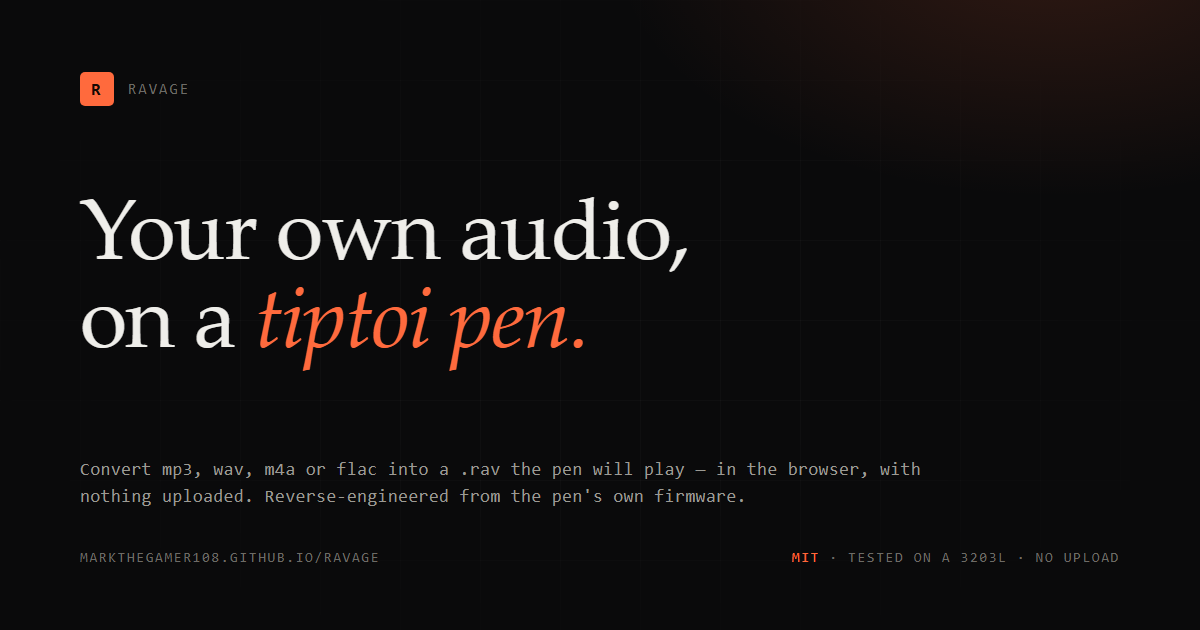
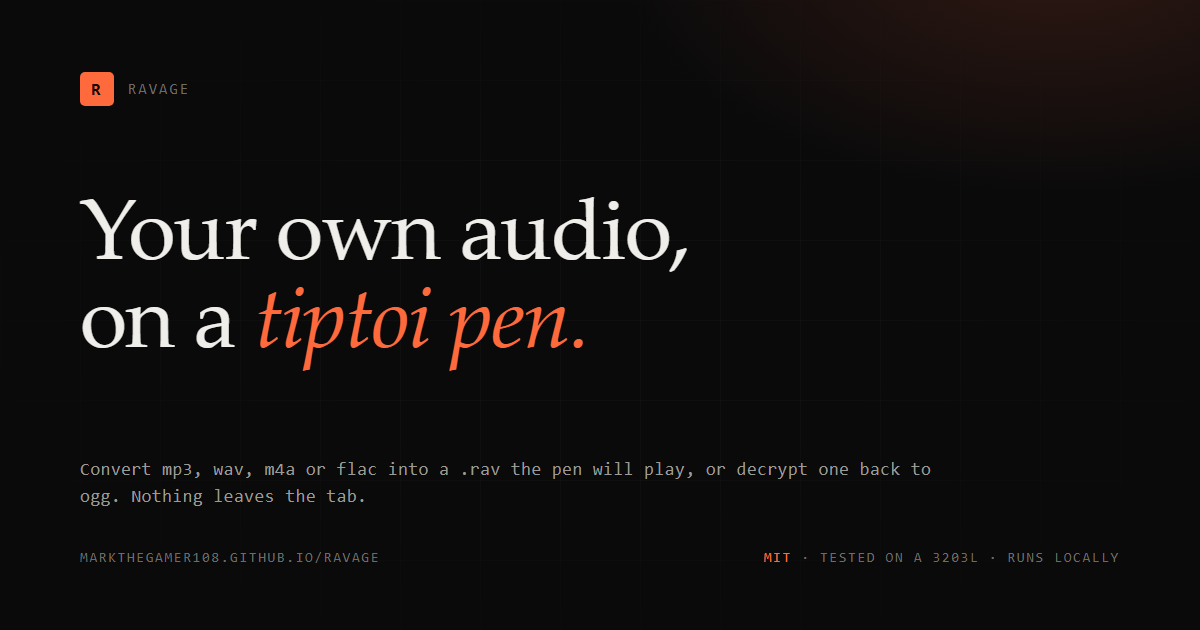
Call the audio mode Encrypt and stop saying upload
The mode switch and action button read Encrypt / Decrypt now. The hero
badge says Runs locally and the lede no longer uses the word upload; the
drop target gets a waveform instead of an upload arrow. Social card
matches. German README picks up the gen 2 only note, and the leftover em
dashes in the docs are gone.

Changed region(s): [[0.0617, 0.7841, 0.6167, 0.8143], [0.6475, 0.8746, 0.925, 0.9048], [0.5858, 0.7238, 0.7708, 0.754]]

diff --git a/docs/app.js b/docs/app.js
@@ -1,1 +1,1 @@
[2 lines of base64/hex data omitted]

diff --git a/docs/index.html b/docs/index.html
@@ -4,24 +4,24 @@
 <meta charset="utf-8">
 <meta name="viewport" content="width=device-width, initial-scale=1">
 
-<title>RAVage — put your own audio on a tiptoi pen, in the browser</title>
-<meta name="description" content="Convert mp3, wav, m4a or flac to .rav for a Ravensburger tiptoi pen, or decrypt stock .rav files back to ogg, in the browser. Nothing is uploaded.">
+<title>RAVage: put your own audio on a tiptoi pen, in the browser</title>
+<meta name="description" content="Convert mp3, wav, m4a or flac to .rav for a Ravensburger tiptoi pen, or decrypt stock .rav files back to ogg, in the browser. No server involved.">
 <link rel="canonical" href="https://markthegamer108.github.io/RAVage/">
 <link rel="sitemap" type="application/xml" href="sitemap.xml">
 <meta name="theme-color" content="#0a0a0b">
 <meta name="color-scheme" content="dark">
 
 <meta property="og:type" content="website">
-<meta property="og:title" content="RAVage — put your own audio on a tiptoi pen">
+<meta property="og:title" content="RAVage: put your own audio on a tiptoi pen">
 <meta property="og:description" content="Drop an audio file in the browser, get a .rav your tiptoi pen will play. Reverse-engineered from the pen's own firmware.">
 <meta property="og:url" content="https://markthegamer108.github.io/RAVage/">
 <meta property="og:image" content="https://markthegamer108.github.io/RAVage/og.png">
 <meta property="og:image:width" content="1200">
 <meta property="og:image:height" content="630">
-<meta property="og:image:alt" content="RAVage — put your own audio on a tiptoi pen.">
+<meta property="og:image:alt" content="RAVage: put your own audio on a tiptoi pen.">
 <meta name="twitter:image" content="https://markthegamer108.github.io/RAVage/og.png">
 <meta name="twitter:card" content="summary_large_image">
-<meta name="twitter:title" content="RAVage — put your own audio on a tiptoi pen">
+<meta name="twitter:title" content="RAVage: put your own audio on a tiptoi pen">
 <meta name="twitter:description" content="Drop an audio file in the browser, get a .rav your tiptoi pen will play.">
 <meta name="twitter:image" content="https://markthegamer108.github.io/RAVage/og.png">
 
@@ -160,7 +160,7 @@ code{
 .conv__drop:hover,.conv__drop[data-over="true"]{background:rgba(255,106,61,.055)}
 .conv__drop b{font-size:15px;font-weight:600}
 .conv__drop small{color:var(--muted-2);font-family:var(--mono);font-size:11px;letter-spacing:.04em}
-.conv__drop svg{width:26px;height:26px;stroke:var(--accent);fill:none;stroke-width:1.5;stroke-linecap:round;stroke-linejoin:round;margin-bottom:2px}
+.conv__drop svg{width:30px;height:30px;stroke:var(--accent);fill:none;stroke-width:1.5;stroke-linecap:round;stroke-linejoin:round;margin-bottom:2px}
 @media (max-width:760px){.conv__drop{border-right:0;border-bottom:1px solid var(--line-soft)}}
 
 .conv__log{
@@ -364,7 +364,7 @@ select{
   <div class="wrap nav__in">
     <a class="brand" href="#top"><span class="brand__mark">R</span> RAVage</a>
     <nav class="nav__links" aria-label="Sections">
-      <a href="#convert">Convert</a>
+      <a href="#convert">Encrypt</a>
       <a href="#binaries">Binaries</a>
       <a href="#format">Format</a>
       <a href="#crack">How it was cracked</a>
@@ -380,20 +380,20 @@ select{
 
     <p class="lede">
       RAVage turns an mp3, wav, m4a or flac into a <code>.rav</code> file the pen will
-      play, and takes stock <code>.rav</code> files apart again. The converter below
-      runs entirely in this tab. No upload, no server, no ffmpeg.
+      play, and turns stock <code>.rav</code> files back into <code>.ogg</code>. Both
+      directions run in this tab. Your file never reaches a server, and there's no ffmpeg.
     </p>
 
     <div class="hero__note">
       <span><i></i>MIT licensed</span>
       <span><i></i>Tested on a 3203L</span>
-      <span><i></i>No upload</span>
+      <span><i></i>Runs locally</span>
     </div>
 
     <div class="conv" id="conv">
       <div class="conv__bar">
         <div class="modes" role="group" aria-label="Mode">
-          <button type="button" class="mode" id="mode-convert" aria-pressed="true">Convert</button>
+          <button type="button" class="mode" id="mode-encrypt" aria-pressed="true">Encrypt</button>
           <button type="button" class="mode" id="mode-decrypt" aria-pressed="false">Decrypt</button>
         </div>
         <span id="conv-status">ready</span>
@@ -401,7 +401,7 @@ select{
 
       <div class="conv__body">
         <label class="conv__drop" id="drop" for="file">
-          <svg viewBox="0 0 24 24" aria-hidden="true"><path d="M12 16V4"/><path d="m7 9 5-5 5 5"/><path d="M4 16v3a1 1 0 0 0 1 1h14a1 1 0 0 0 1-1v-3"/></svg>
+          <svg viewBox="0 0 24 24" aria-hidden="true"><path d="M3 11v2"/><path d="M7 9v6"/><path d="M11 6v12"/><path d="M15 8v8"/><path d="M19 10v4"/></svg>
           <b id="drop-title">Drop an audio file</b>
           <small id="drop-sub">or click · mp3 wav m4a flac ogg aac</small>
           <input type="file" id="file" accept="audio/*,.mp3,.wav,.m4a,.flac,.ogg,.aac,.aiff" hidden>
@@ -420,7 +420,7 @@ select{
             <option value="CommonID">CommonID</option>
           </select>
         </label>
-        <button class="btn btn--solid" id="go">Convert</button>
+        <button class="btn btn--solid" id="go">Encrypt</button>
         <a class="btn" id="save" hidden download>Download .rav</a>
         <span class="conv__spacer"></span>
         <p class="conv__hint" id="hint">the pen's key is in its firmware; try CommonI2 first</p>
@@ -430,7 +430,7 @@ select{
     <div class="note">
       <svg viewBox="0 0 24 24" aria-hidden="true"><path d="M12 9v4"/><path d="M12 17h.01"/><circle cx="12" cy="12" r="9"/></svg>
       <div>
-        The browser converter is new and hasn't been on a physical pen yet. If the file is
+        The browser encoder is new and hasn't been on a physical pen yet. If the file is
         silent, run the desktop build's pen test first, or decrypt one of your own stock
         <code>.rav</code> files to see which key your pen wants.
       </div>
@@ -442,7 +442,7 @@ select{
     <div>
       <h2>Or take a build</h2>
       <p>
-        Same converter, no browser. PyInstaller one-file builds with ffmpeg and the key
+        Same tool, no browser. PyInstaller one-file builds with ffmpeg and the key
         table inside, so there's nothing to install and no Python on your <code>PATH</code>.
         macOS ones are unsigned.
       </p>
@@ -497,7 +497,7 @@ select{
   <section class="wrap sec reveal">
     <div class="rail"><b>02</b>The short version</div>
     <div>
-      <h2>A converter, and a decryptor</h2>
+      <h2>Encrypt, and decrypt</h2>
       <p>
         The pen stores each track as a 32-byte header followed by an Ogg Vorbis stream
         that's been run through a keyed byte transform. RAVage does the whole pipeline:
@@ -597,7 +597,7 @@ op <span class="n">3</span>  c ^ kb</pre>
         </li>
         <li>
           <b>Two quirks</b>
-          <p>The pen ignores Ogg page CRCs, which is a sloppy decoder and lucky for us. It also rejects fat comment headers, which is why the converter strips metadata.</p>
+          <p>The pen ignores Ogg page CRCs, which is a sloppy decoder and lucky for us. It also rejects fat comment headers, which is why the tool strips metadata.</p>
         </li>
         <li>
           <b>Old MacDonald, Olchi, Drei Chinesen</b>

diff --git a/web/src/converter.js b/web/src/converter.js
@@ -9,14 +9,14 @@ const $ = (id) => document.getElementById(id);
 const drop = $('drop'), fileInput = $('file'), logEl = $('log');
 const goBtn = $('go'), saveBtn = $('save'), statusEl = $('conv-status'), keySel = $('key');
 const hintEl = $('hint'), dropTitle = $('drop-title'), dropSub = $('drop-sub'), keyRow = $('keyrow');
-const modeBtns = { convert: $('mode-convert'), decrypt: $('mode-decrypt') };
+const modeBtns = { encrypt: $('mode-encrypt'), decrypt: $('mode-decrypt') };
 
 const MODES = {
-  convert: {
+  encrypt: {
     title: 'Drop an audio file',
     sub: 'or click · mp3 wav m4a flac ogg aac',
     accept: 'audio/*,.mp3,.wav,.m4a,.flac,.ogg,.aac,.aiff',
-    button: 'Convert',
+    button: 'Encrypt',
     empty: ['waiting for a file', 'it never leaves this tab'],
     hint: "the pen's key is in its firmware; try CommonI2 first",
     done: "copy it into the pen's songs folder, then unplug",
@@ -32,7 +32,7 @@ const MODES = {
   },
 };
 
-let mode = 'convert';
+let mode = 'encrypt';
 let pending = null;
 
 function log(line, cls) {
@@ -92,7 +92,7 @@ function setMode(next) {
   dropSub.textContent = m.sub;
   fileInput.setAttribute('accept', m.accept);
   goBtn.textContent = m.button;
-  keyRow.hidden = next !== 'convert';
+  keyRow.hidden = next !== 'encrypt';
   hintEl.textContent = m.hint;
   resetLog();
 }
@@ -107,8 +107,8 @@ function chooseFile(file) {
   log('> ' + file.name, 'l-prompt');
   log('  ' + (file.size / 1048576).toFixed(1) + ' MB', 'l-dim');
   setStatus('file ready');
-  hintEl.textContent = mode === 'convert'
-    ? 'converts locally, nothing leaves this tab'
+  hintEl.textContent = mode === 'encrypt'
+    ? 'encrypts locally, nothing leaves this tab'
     : 'decrypts locally, nothing leaves this tab';
 }
 
@@ -124,7 +124,7 @@ fileInput.addEventListener('change', () => {
   fileInput.value = '';
 });
 
-async function runConvert(file, key8) {
+async function runEncrypt(file, key8) {
   const ac = new AudioContext();
   let decoded;
   try {
@@ -226,7 +226,7 @@ goBtn.addEventListener('click', async () => {
   setStatus('working');
 
   try {
-    const out = job === 'convert' ? await runConvert(file, keySel.value) : await runDecrypt(file);
+    const out = job === 'encrypt' ? await runEncrypt(file, keySel.value) : await runDecrypt(file);
     saveBtn.href = URL.createObjectURL(out.blob);
     saveBtn.download = out.name;
     saveBtn.hidden = false;
@@ -243,10 +243,10 @@ goBtn.addEventListener('click', async () => {
 });
 
 keySel.addEventListener('change', () => {
-  if (mode !== 'convert') return;
+  if (mode !== 'encrypt') return;
   hintEl.textContent = keySel.value === 'CommonI2'
     ? 'the default on every pen tested so far'
     : 'newer pens; decrypt a stock .rav to confirm';
 });
 
-setMode('convert');
+setMode('encrypt');

diff --git a/rav_tool/__init__.py b/rav_tool/__init__.py
@@ -1,1 +1,1 @@
-"""RAV Tool — tiptoi .rav audio converter."""
+"""tiptoi .rav audio conversion."""

diff --git a/README.de.md b/README.de.md
@@ -39,11 +39,12 @@ von GitHub Actions (`.github/workflows/build.yml`).
 
 ### Getestete Hardware
 
-Auf echter Hardware verifiziert: **tiptoi-Stift Gen 2 (3203L)** mit `key8 = CommonI2`. Neuere
-Stifte nutzen dieselbe RAV-Dateifamilie, aber ihre Firmware ist anders — ein Nutzer meldete `CommonID`
-statt `CommonI2`. Die Key-Tabelle kommt aus der Firmware des jeweiligen Stifts
-(`data/keytable.bin` stammt aus `Update3203L.upd`), also prüfe einen
-Gen-3-Stift erstmal mit seinen eigenen Original-Dateien. Der Decryptor macht das einfach:
+Auf echter Hardware verifiziert: **tiptoi-Stift Gen 2 (3203L)** mit `key8 = CommonI2`. Nur der
+Gen-2-Stift hat einen Player eingebaut, also kann nur er eine `.rav` abspielen. Gen-3-Stifte
+haben keinen Player, für sie ist dieses Tool nicht gedacht. Manche Gen-2-Stifte haben eine
+andere Firmware und melden `CommonID` statt `CommonI2`. Die Key-Tabelle kommt aus der Firmware
+des jeweiligen Stifts (`data/keytable.bin` stammt aus `Update3203L.upd`), also teste deinen
+Gen-2-Stift an seinen eigenen Original-Dateien. Der Decryptor macht das einfach:
 
 ```
 python rav_cli.py decrypt "Old MacDonald Had a Farm.rav"   # zeigt key8 an

diff --git a/README.md b/README.md
@@ -47,7 +47,7 @@ on GitHub Actions (`.github/workflows/build.yml`).
 ### Tested hardware
 
 Verified on a real pen: **tiptoi gen 2 (3203L)** with `key8 = CommonI2`. Only the
-gen 2 pen has a player inside, so only it can play a `.rav` — gen 3 pens have no
+gen 2 pen has a player inside, so only it can play a `.rav`. Gen 3 pens have no
 player at all and this tool does not apply to them. Some gen 2 pens ship with
 different firmware and report `CommonID` instead of `CommonI2`. The key table comes
 from each pen's own firmware (`data/keytable.bin` is from `Update3203L.upd`), so if
